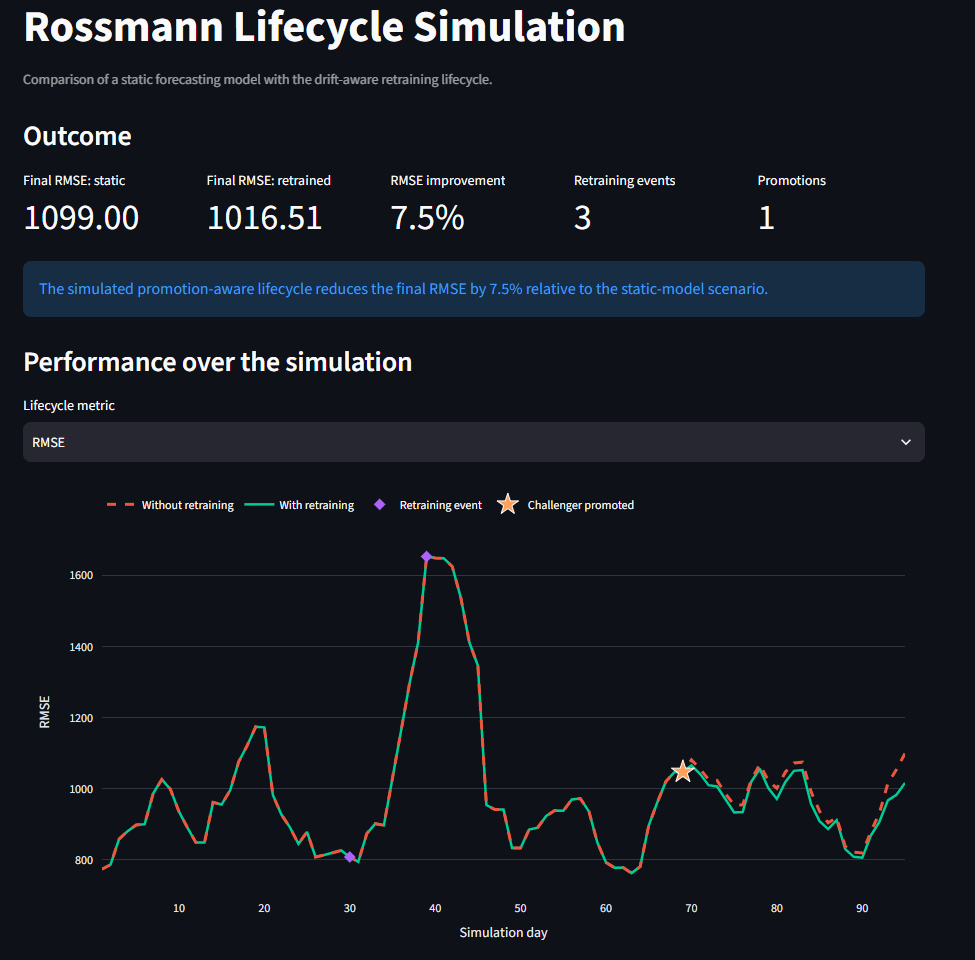
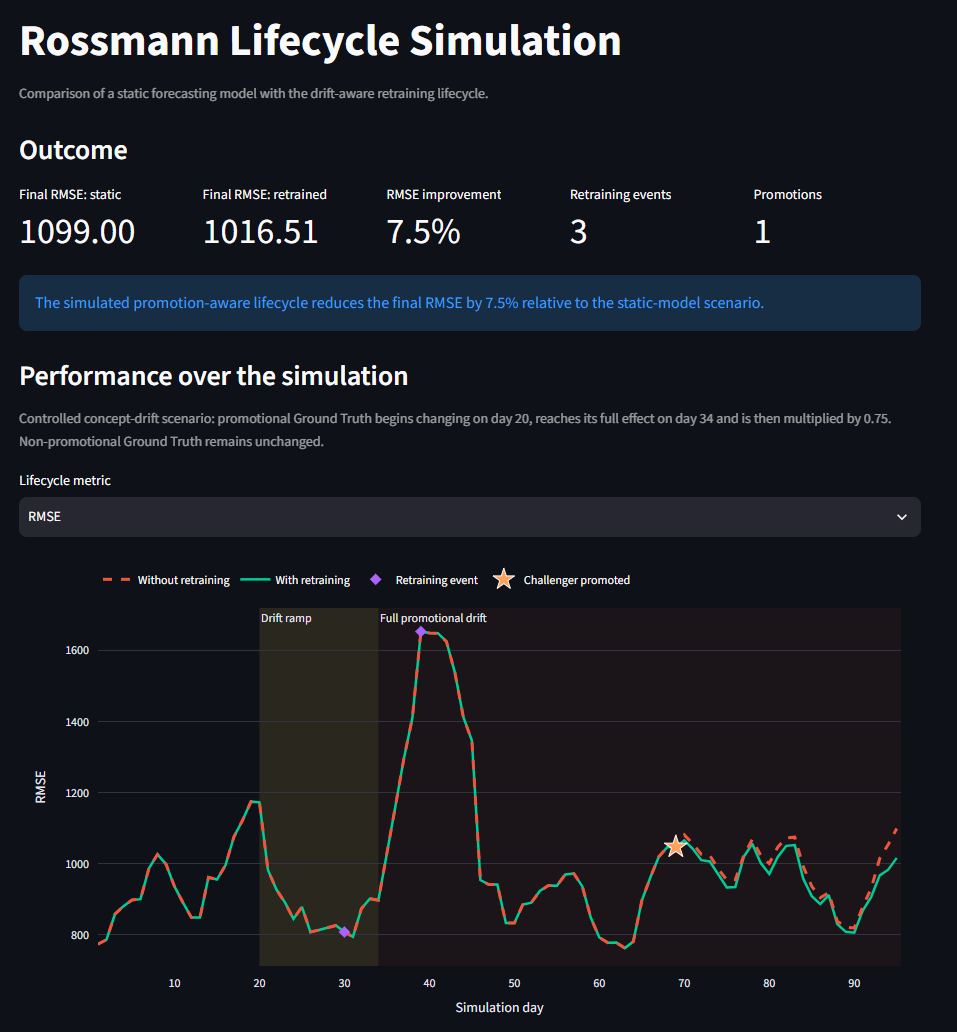
feat: explain controlled drift in lifecycle dashboard

diff --git a/src/mlops_sales_forecasting/monitoring/pages/1_Lifecycle_Simulation.py b/src/mlops_sales_forecasting/monitoring/pages/1_Lifecycle_Simulation.py
@@ -4,6 +4,7 @@ from pathlib import Path
 import streamlit as st
 
 from mlops_sales_forecasting.monitoring.simulation_dashboard import (
+    build_drift_summary,
     build_lifecycle_metric_chart,
     build_segment_chart,
     build_simulation_summary,
@@ -32,7 +33,7 @@ def main() -> None:
 
     st.title("Rossmann Lifecycle Simulation")
     st.caption(
-        "Comparison of a static forecasting model with the drift-aware retraining lifecycle."
+        "Comparison of a static forecasting model with the policy-controlled retraining lifecycle."
     )
 
     results_path = _results_path()
@@ -55,6 +56,7 @@ def main() -> None:
         without_retraining,
         with_retraining,
     )
+    drift = build_drift_summary(with_retraining)
 
     st.subheader("Outcome")
 
@@ -96,6 +98,17 @@ def main() -> None:
 
     st.subheader("Performance over the simulation")
 
+    promo_multiplier = 1.0 + float(drift["maximum_promo_uplift"])
+
+    st.caption(
+        "Controlled concept-drift scenario: "
+        f"promotional Ground Truth begins changing on day "
+        f"{drift['drift_start_day']}, reaches its full effect on day "
+        f"{drift['full_drift_day']} and is then multiplied by "
+        f"{promo_multiplier:.2f}. Non-promotional Ground Truth remains "
+        "unchanged."
+    )
+
     selected_metric = st.selectbox(
         "Lifecycle metric",
         options=[
@@ -122,16 +135,27 @@ def main() -> None:
 
     with st.expander("How to read the lifecycle comparison"):
         st.markdown(
-            """
-- **Without retraining** keeps the original model active while
-  the promotion behavior changes.
-- **With retraining** evaluates monitoring signals, trains
-  candidates and promotes an approved replacement.
+            f"""
+- **Without retraining** keeps the original champion active for all
+  {summary["final_day"]} simulation days.
+- **With retraining** evaluates policy signals, trains challengers and
+  promotes only candidates that pass overall and segment-level guardrails.
+- The **yellow region** starts on day
+  {drift["drift_start_day"]} and shows the
+  {drift["drift_duration_days"]}-day drift ramp.
+- During the ramp, promotional Ground Truth is reduced linearly from its
+  original value to a multiplier of **{promo_multiplier:.2f}**.
+- The **red region** begins on day {drift["full_drift_day"]} and marks
+  the period with the full promotional effect.
+- Non-promotional Ground Truth is unchanged by the controlled scenario.
+- Each prediction is produced **before** that day's Ground Truth is persisted
+  and used for monitoring or state updates. This prevents target leakage.
 - Purple diamonds mark completed retraining events.
-- The orange star marks the challenger that passed evaluation and was promoted to champion.
-- Retrained challengers without a promotion did not replace the active champion.
-- Bias values near zero indicate more balanced over- and
-  under-forecasting.
+- The orange star marks the challenger that passed the paired promotion
+  checks and became champion.
+- Retrained challengers without a promotion did not replace the active
+  champion.
+- Bias values near zero indicate more balanced over- and under-forecasting.
 """
         )
 

diff --git a/src/mlops_sales_forecasting/monitoring/simulation_dashboard.py b/src/mlops_sales_forecasting/monitoring/simulation_dashboard.py
@@ -131,6 +131,77 @@ def build_simulation_summary(
     )
 
 
+def build_drift_summary(
+    lifecycle: pd.DataFrame,
+) -> dict[str, float | int]:
+    """Extract the controlled-drift scenario metadata."""
+    required_columns = {
+        "drift_start_day",
+        "drift_duration_days",
+        "maximum_base_uplift",
+        "maximum_promo_uplift",
+    }
+    missing_columns = required_columns - set(lifecycle.columns)
+
+    if missing_columns:
+        raise KeyError(f"Lifecycle result is missing drift metadata: {sorted(missing_columns)}.")
+
+    values = lifecycle.iloc[0]
+    start_day = int(values["drift_start_day"])
+    duration_days = int(values["drift_duration_days"])
+
+    return {
+        "drift_start_day": start_day,
+        "drift_duration_days": duration_days,
+        "full_drift_day": (start_day + duration_days),
+        "maximum_base_uplift": float(values["maximum_base_uplift"]),
+        "maximum_promo_uplift": float(values["maximum_promo_uplift"]),
+    }
+
+
+def _add_drift_regions(
+    figure: go.Figure,
+    lifecycle: pd.DataFrame,
+) -> None:
+    """Mark the ramp and full-drift periods."""
+    summary = build_drift_summary(lifecycle)
+    start_day = int(summary["drift_start_day"])
+    full_drift_day = int(summary["full_drift_day"])
+    maximum_day = float(
+        pd.to_numeric(
+            lifecycle["day"],
+            errors="coerce",
+        ).max()
+    )
+
+    if maximum_day >= start_day:
+        figure.add_vrect(
+            x0=start_day,
+            x1=min(
+                full_drift_day,
+                maximum_day + 0.5,
+            ),
+            fillcolor="#FECB52",
+            opacity=0.12,
+            layer="below",
+            line_width=0,
+            annotation_text="Drift ramp",
+            annotation_position="top left",
+        )
+
+    if maximum_day >= full_drift_day:
+        figure.add_vrect(
+            x0=full_drift_day,
+            x1=maximum_day + 0.5,
+            fillcolor="#EF553B",
+            opacity=0.06,
+            layer="below",
+            line_width=0,
+            annotation_text=("Full promotional drift"),
+            annotation_position="top left",
+        )
+
+
 def build_lifecycle_metric_chart(
     without_retraining: pd.DataFrame,
     with_retraining: pd.DataFrame,
@@ -148,6 +219,10 @@ def build_lifecycle_metric_chart(
         raise ValueError(f"Unsupported simulation metric: {metric}.")
 
     figure = go.Figure()
+    _add_drift_regions(
+        figure,
+        with_retraining,
+    )
 
     figure.add_trace(
         go.Scatter(

diff --git a/tests/unit/monitoring/test_simulation_dashboard.py b/tests/unit/monitoring/test_simulation_dashboard.py
@@ -4,6 +4,7 @@ import pandas as pd
 import pytest
 
 from mlops_sales_forecasting.monitoring.simulation_dashboard import (
+    build_drift_summary,
     build_lifecycle_metric_chart,
     build_segment_chart,
     build_simulation_summary,
@@ -257,3 +258,55 @@ def test_invalid_metric_is_rejected() -> None:
             frame,
             metric="unknown",
         )
+
+
+def test_build_drift_summary() -> None:
+    frame = build_lifecycle_frame(
+        final_rmse=1000.0,
+    )
+
+    result = build_drift_summary(frame)
+
+    assert result == {
+        "drift_start_day": 20,
+        "drift_duration_days": 14,
+        "full_drift_day": 34,
+        "maximum_base_uplift": 0.0,
+        "maximum_promo_uplift": -0.25,
+    }
+
+
+def test_lifecycle_chart_marks_drift_periods() -> None:
+    without = build_lifecycle_frame(
+        final_rmse=2000.0,
+    )
+    with_run = build_lifecycle_frame(
+        final_rmse=1000.0,
+    )
+
+    without["day"] = [
+        20,
+        34,
+    ]
+    with_run["day"] = [
+        20,
+        34,
+    ]
+
+    figure = build_lifecycle_metric_chart(
+        without,
+        with_run,
+        metric="rmse",
+    )
+
+    assert len(figure.layout.shapes) == 2
+    assert figure.layout.shapes[0].x0 == 20
+    assert figure.layout.shapes[0].x1 == 34
+    assert figure.layout.shapes[1].x0 == 34
+
+    annotation_texts = {annotation.text for annotation in (figure.layout.annotations)}
+
+    assert annotation_texts == {
+        "Drift ramp",
+        "Full promotional drift",
+    }

diff --git a/README.md b/README.md
@@ -46,6 +46,12 @@ promotional effectiveness and compares two matched scenarios:
 - a managed lifecycle with policy-triggered candidate training and gated
   promotion.
 
+This is controlled concept drift rather than feature drift: beginning on
+simulation day 20, promotional ground truth is reduced linearly over 14 days
+until it reaches 75% of its original value, while non-promotional sales remain
+unchanged. Predictions are generated before the corresponding delayed ground
+truth is modified and persisted, preventing target leakage.
+
 | Result | Static champion | Managed lifecycle |
 |---|---:|---:|
 | Final RMSE | `1099.00` | `1016.51` |
